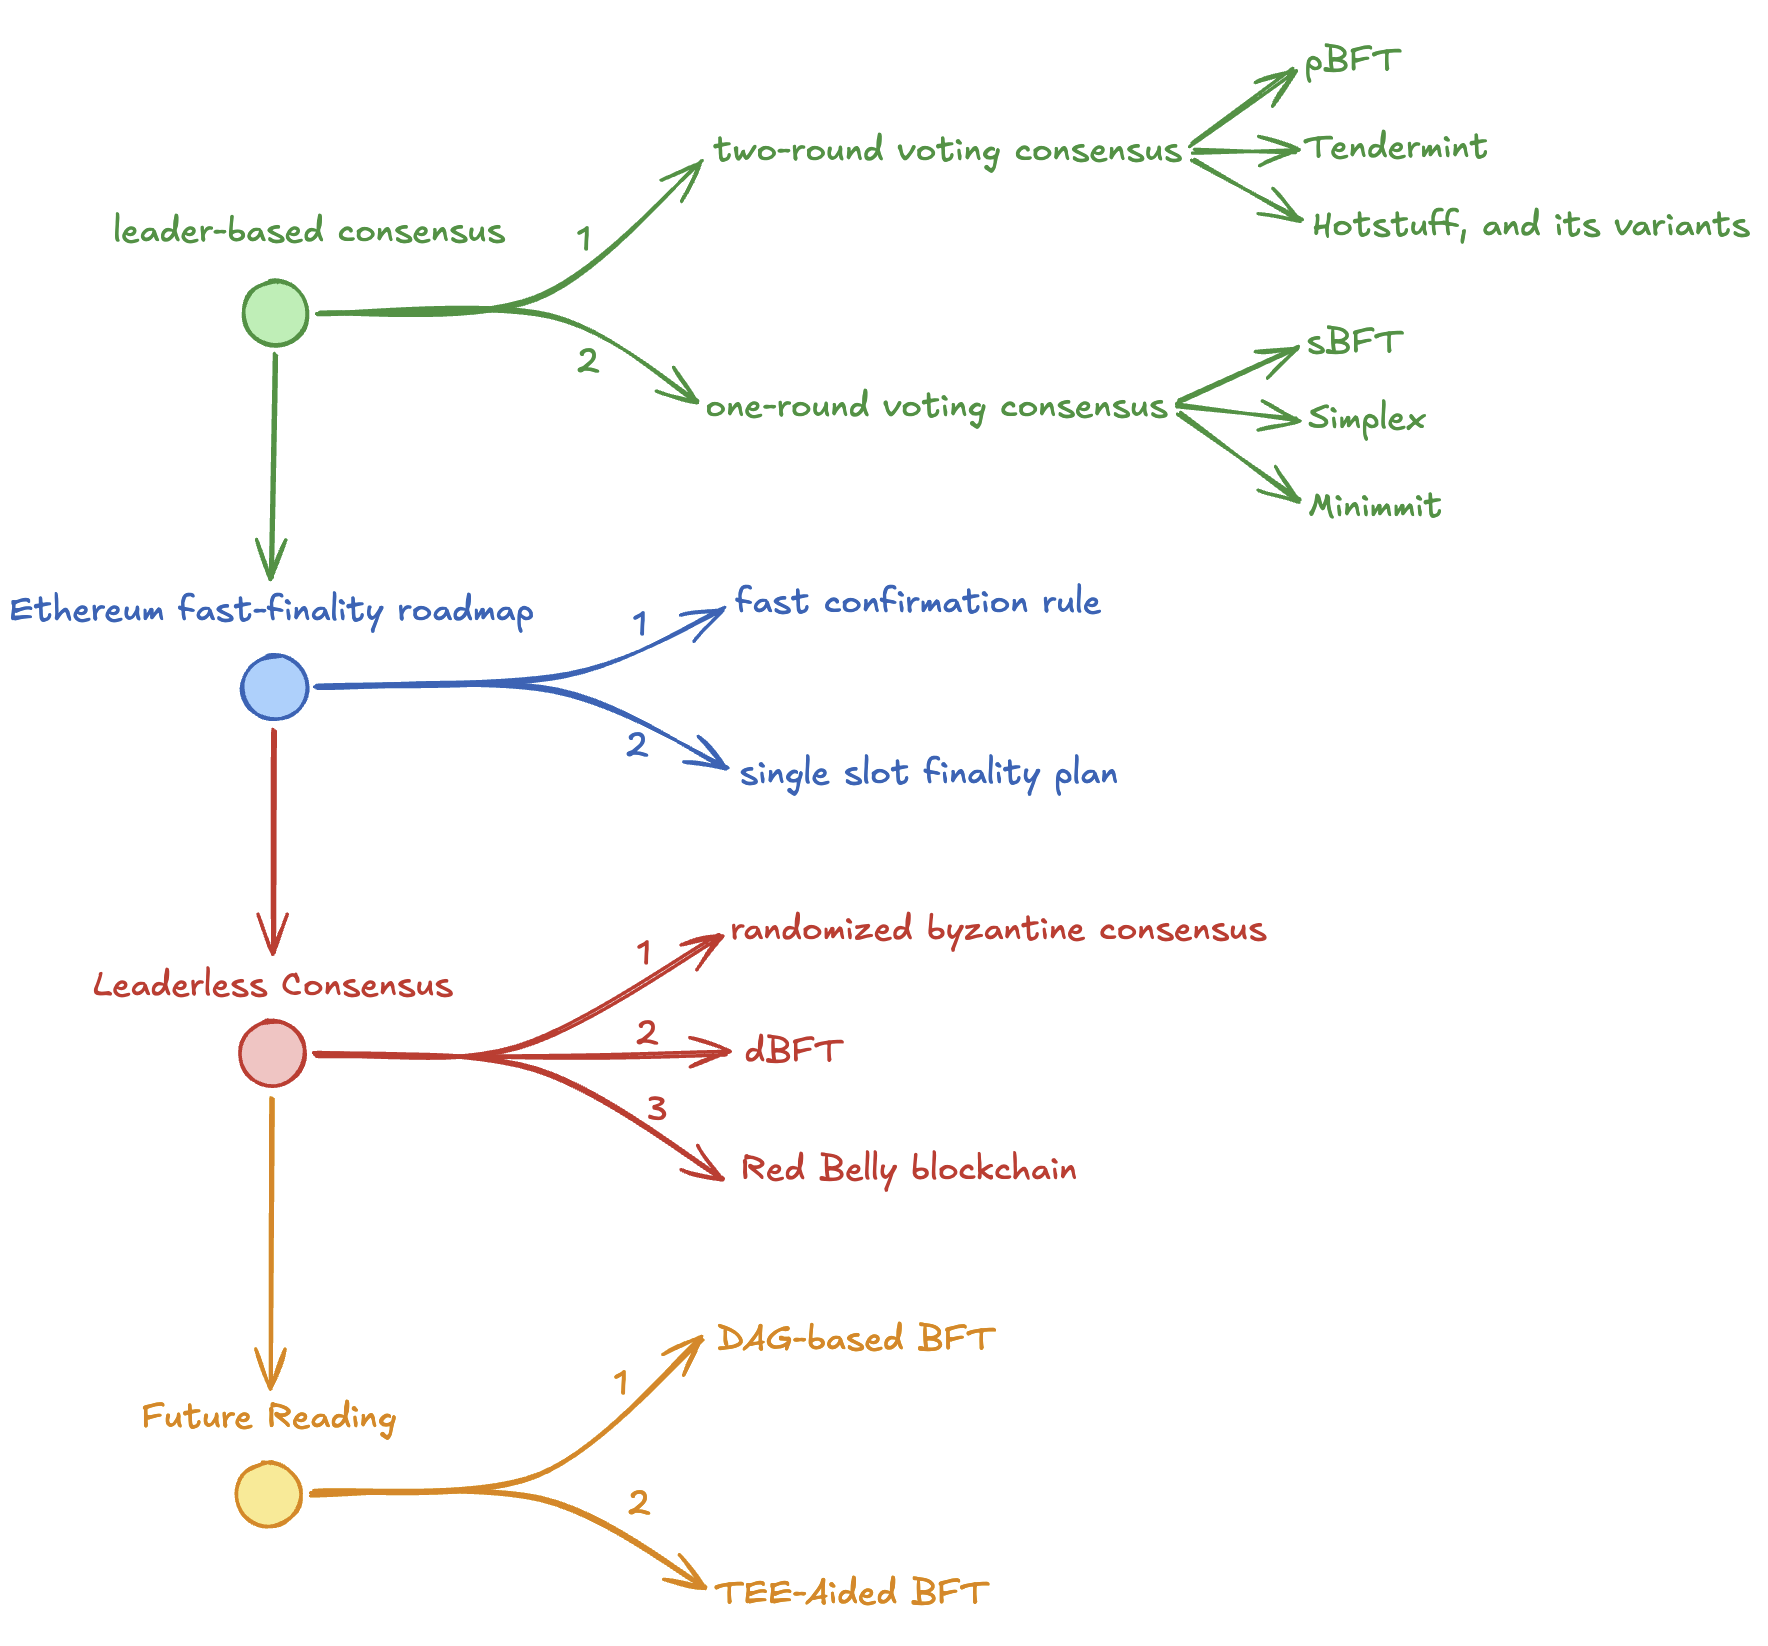
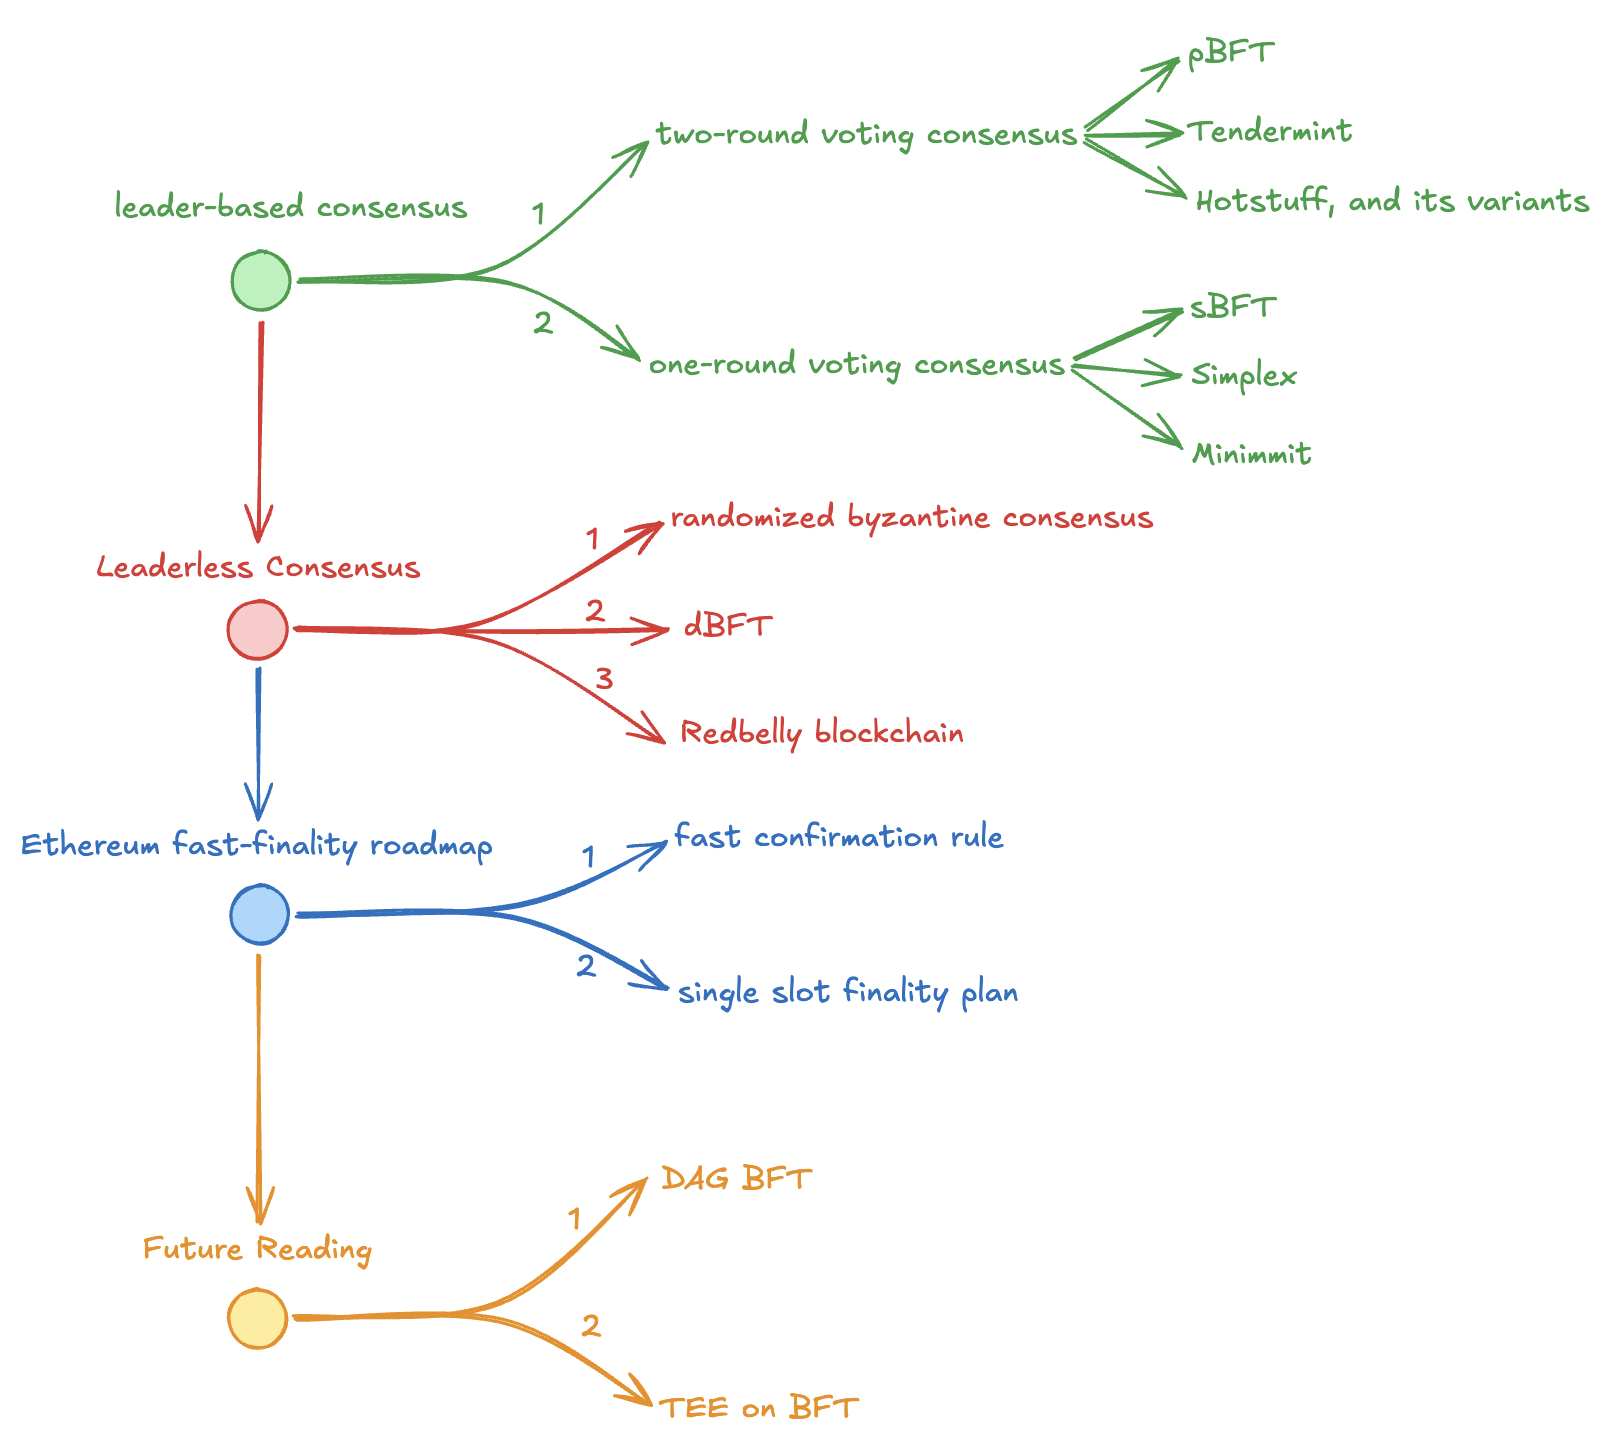
chore: Update naming convention.

diff --git a/demos/red_belly_superblock_ui.html b/demos/red_belly_superblock_ui.html
@@ -3,7 +3,7 @@
   <head>
     <meta charset="utf-8" />
     <meta name="viewport" content="width=device-width, initial-scale=1" />
-    <title>Red Belly Superblock Demo</title>
+    <title>Redbelly Superblock Demo</title>
     <style>
       :root {
         --bg: #0f172a;
@@ -591,9 +591,9 @@
     <main class="demo">
       <header class="topbar">
         <div>
-          <h1>Red Belly Superblock Demo</h1>
+          <h1>Redbelly Superblock Demo</h1>
           <p class="subtitle">
-            Red Belly does not pick only the lowest accepted proposal. It uses
+            Redbelly does not pick only the lowest accepted proposal. It uses
             binary decisions as a bitmask, selects many verified proposals, then
             reconciles conflicting transactions into one superblock.
           </p>
@@ -967,7 +967,7 @@
         const el = document.getElementById("finalSummary");
         if (!state.started) {
           el.innerHTML =
-            "This demo contrasts Red Belly with DBFT: Red Belly keeps all bitmask=1 proposals, then reconciles them into a superblock.";
+            "This demo contrasts Redbelly with DBFT: Redbelly keeps all bitmask=1 proposals, then reconciles them into a superblock.";
           return;
         }
         if (!state.superblock.length) {
@@ -989,7 +989,7 @@
       function renderRules() {
         document.getElementById("rules").innerHTML = `
         <div class="rule"><strong>DBFT:</strong> binary decisions usually pick one winning proposal.</div>
-        <div class="rule"><strong>Red Belly:</strong> binary decisions form a <code>bitmask</code>; every index with <code>1</code> is selected.</div>
+        <div class="rule"><strong>Redbelly:</strong> binary decisions form a <code>bitmask</code>; every index with <code>1</code> is selected.</div>
         <div class="rule"><strong>Verified broadcast:</strong> sub-blocks are delivered before they enter the bitmask stage.</div>
         <div class="rule"><strong>Reconciliation:</strong> selected proposals are merged deterministically; invalid or conflicting transactions are discarded.</div>
       `;

diff --git a/content/research/consensus-reading-log/sections/02-leaderless-consensus.md b/content/research/consensus-reading-log/sections/02-leaderless-consensus.md
@@ -559,18 +559,18 @@ This will be a demo for you to play around with it for familarity:
 </details>
 
 <details>
-<summary>Red Belly Blockchain</summary>
+<summary>Redbelly Blockchain</summary>
 
-`Red Belly Blockchain` starts from the same `DBFT` binary consensus core, but changes the target completely.
+`Redbelly Blockchain` starts from the same `DBFT` binary consensus core, but changes the target completely.
 `DBFT` with multivalue consensus still ends by picking one surviving proposal.
-`Red Belly` does not stop there.
+`Redbelly` does not stop there.
 Instead of picking one surviving proposal like `DBFT`, it keeps multiple surviving proposals as **sub blocks**, then combines them into one final **superblock**.
 
 ![alt text](/assets/images/consensus/01/05.png)
 
 <iframe
   src="demos/red_belly_superblock_ui.html"
-  title="Red Belly superblock demo"
+  title="Redbelly superblock demo"
   width="100%"
   height="834"
   style="display: block; width: 117.65%; max-width: none; border: 0; transform: scale(0.85); transform-origin: top left;"
@@ -580,7 +580,7 @@ Instead of picking one surviving proposal like `DBFT`, it keeps multiple survivi
 Just remind again:
 
 - `DBFT` uses binary consensus to decide which proposal survives;
-- `Red Belly` uses binary consensus to decide which proposal indices survive, then reconciles them together.
+- `Redbelly` uses binary consensus to decide which proposal indices survive, then reconciles them together.
 
 Now, we go deeper into the changes:
 
@@ -590,7 +590,7 @@ Now, we go deeper into the changes:
 
 ### 1. Verified reliable broadcast
 
-Before proposers can be reconciled together, `Red Belly` first changes the broadcast layer.
+Before proposers can be reconciled together, `Redbelly` first changes the broadcast layer.
 Instead of using a plain reliable broadcast, it uses a **verified reliable broadcast**.
 
 The easiest way to see this change is to recall the plain reliable broadcast first.
@@ -601,7 +601,7 @@ In the plain version:
 - once enough matching echoes are seen, nodes broadcast `READY`;
 - and once enough matching `READY` messages are seen, the proposal is delivered.
 
-`Red Belly` keeps the same overall shape, but changes two things.
+`Redbelly` keeps the same overall shape, but changes two things.
 
 First, after the full proposal `v` is sent once in `INIT`, later phases mostly exchange its hash `h(v)` instead of resending the whole proposal.
 The reason is simple: proposals can be large, so it is much cheaper to confirm agreement on the digest than to rebroadcast the full content every time.
@@ -654,7 +654,7 @@ Secondary verifiers wait for `Δ`, and only help if needed.
 After verification finishes, the node broadcasts:
 
 ```javascript
-READY(verif, h(v), j)
+READY(verif, h(v), j);
 ```
 
 Here `verif` is not just a boolean.
@@ -673,7 +673,7 @@ So the real change in this layer is:
 
 ### 2. From proposals to a bitmask
 
-Once proposals are being delivered in the background, `Red Belly` runs one binary consensus instance per proposer.
+Once proposals are being delivered in the background, `Redbelly` runs one binary consensus instance per proposer.
 This is the `propose(val)` algorithm in the paper.
 
 ```javascript
@@ -725,7 +725,7 @@ reconciliate(props):
   decide(superblock)
 ```
 
-This is where `Red Belly` really departs from `DBFT`.
+This is where `Redbelly` really departs from `DBFT`.
 The output is no longer one proposal.
 It is one **superblock** made from many proposals.
 
@@ -741,16 +741,16 @@ So they all end up with the same final superblock.
 The paper also adds one fairness detail here.
 The traversal order is rotated by the index `k` of the latest committed superblock, so the lowest proposer index does not always get priority when transactions are added first.
 
-### 4. What Red Belly improves over DBFT
+### 4. What Redbelly improves over DBFT
 
 At this point the difference is clearer.
 
 - `DBFT` uses binary consensus to pick one surviving proposal.
-- `Red Belly` uses binary consensus to keep many proposals alive at once.
+- `Redbelly` uses binary consensus to keep many proposals alive at once.
 - `DBFT` stops after multivalue selection.
-- `Red Belly` adds verified broadcast and reconciliation to turn that set into one superblock.
+- `Redbelly` adds verified broadcast and reconciliation to turn that set into one superblock.
 
-This is why `Red Belly` improves throughput.
+This is why `Redbelly` improves throughput.
 Instead of throwing away all but one proposal, it can commit transactions coming from many proposers in the same consensus instance.
 
 </details>